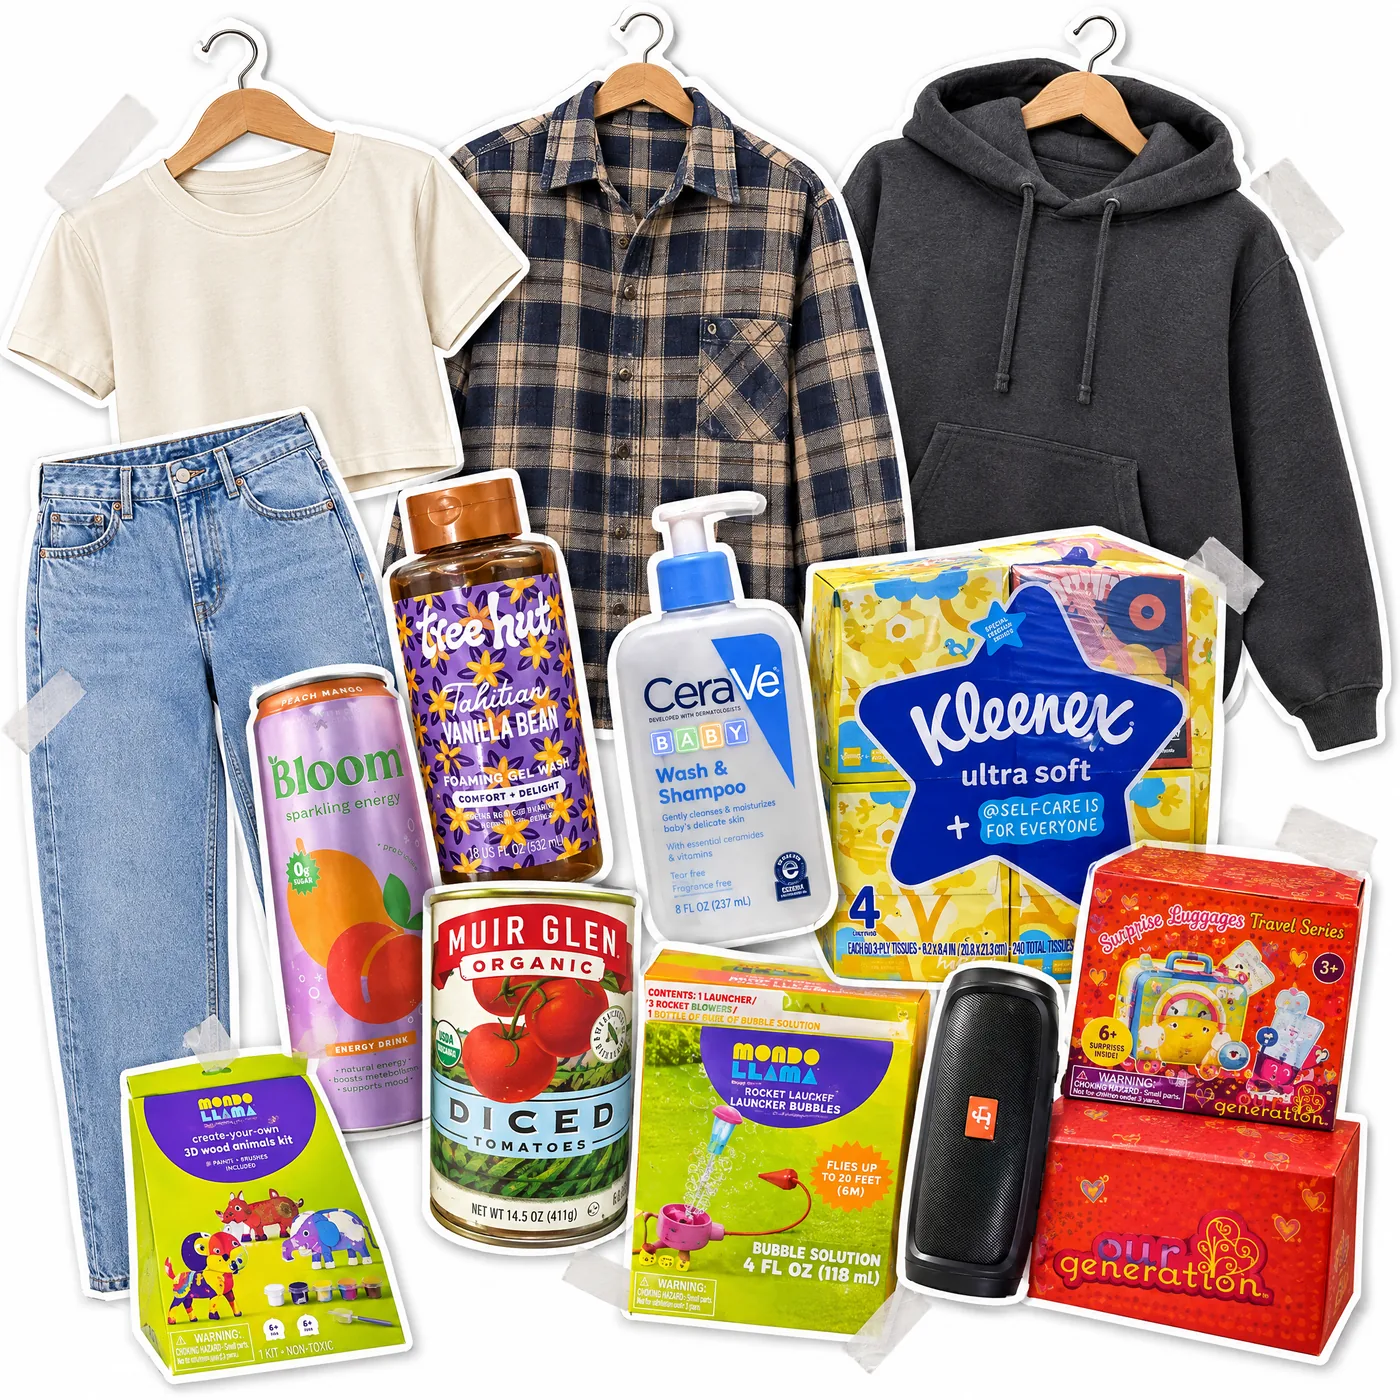
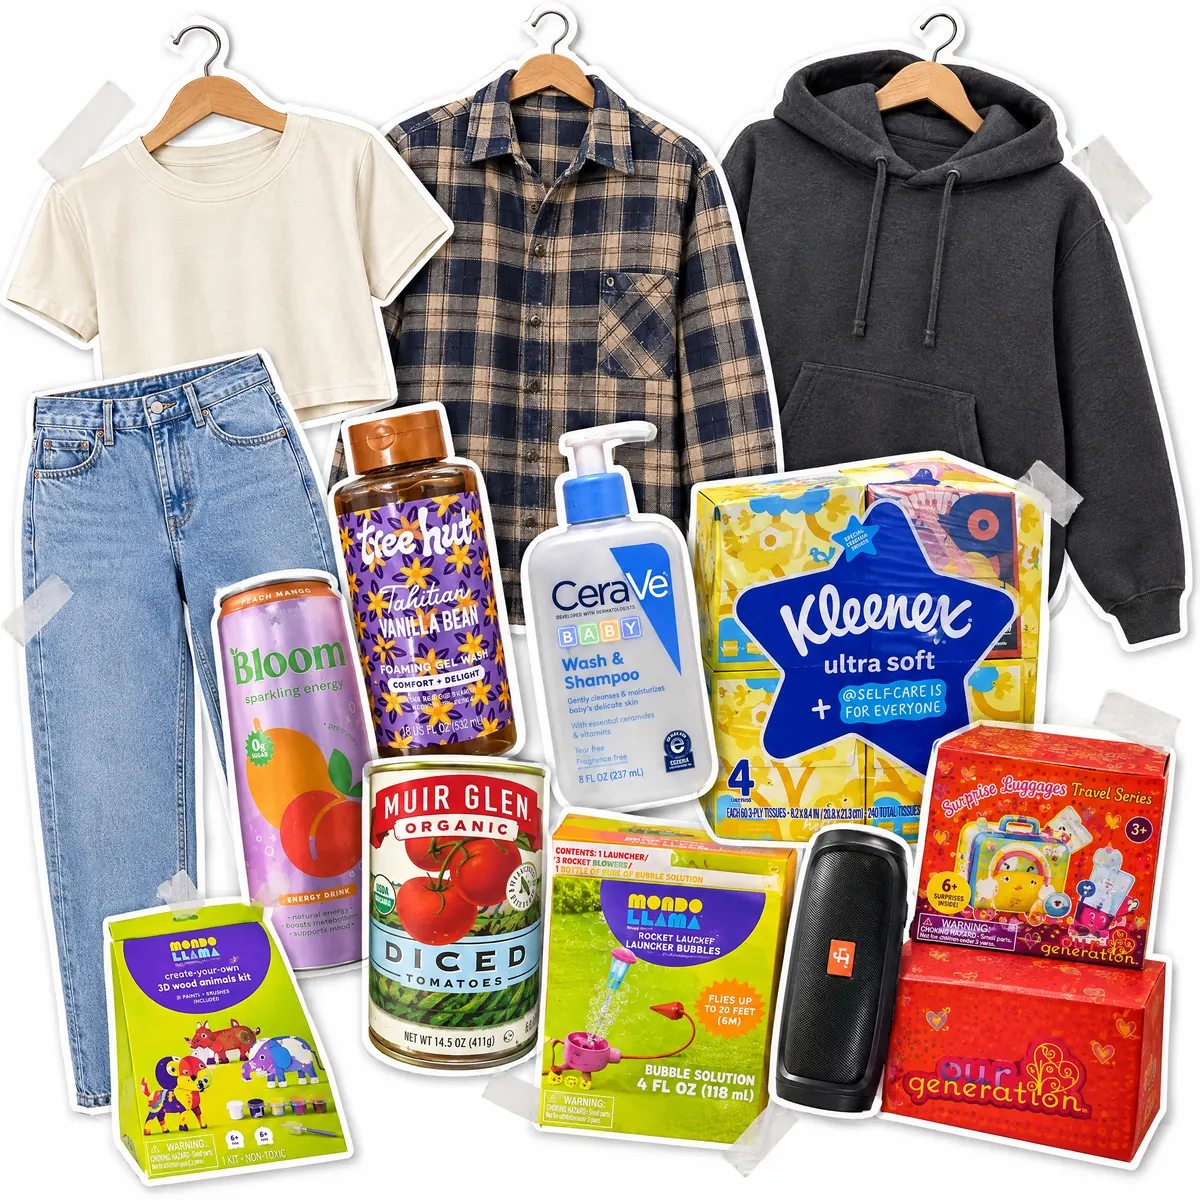
Sitio: collage de portada a 1200 px para cargar más rápido
Claude-Session: https://claude.ai/code/session_01M4wU7EqPzcXeE6aaovNzdw

diff --git a/site/public/index.html b/site/public/index.html
@@ -48,7 +48,7 @@
         <p class="hero-stamp"><span>Abierto todos los días</span> 11:00 a. m. a 8:00 p. m.</p>
       </div>
       <figure class="hero-art">
-        <img src="assets/hallazgos.webp" width="1400" height="1400" alt="Recortes de ropa americana y productos reales de la tienda: playera, camisa de franela, jeans, sudadera, exfoliante, shampoo, pañuelos, bebida, bocina y juguetes" fetchpriority="high">
+        <img src="assets/hallazgos.webp" width="1200" height="1200" alt="Recortes de ropa americana y productos reales de la tienda: playera, camisa de franela, jeans, sudadera, exfoliante, shampoo, pañuelos, bebida, bocina y juguetes" fetchpriority="high">
         <a class="price-tag" href="#ropa"><img src="assets/etiqueta-ropa-desde-50.webp" width="474" height="888" alt="Ropa desde $50 por prenda"></a>
         <a class="new-stamp" href="#catalogo">Ver lo<br>nuevo</a>
       </figure>
